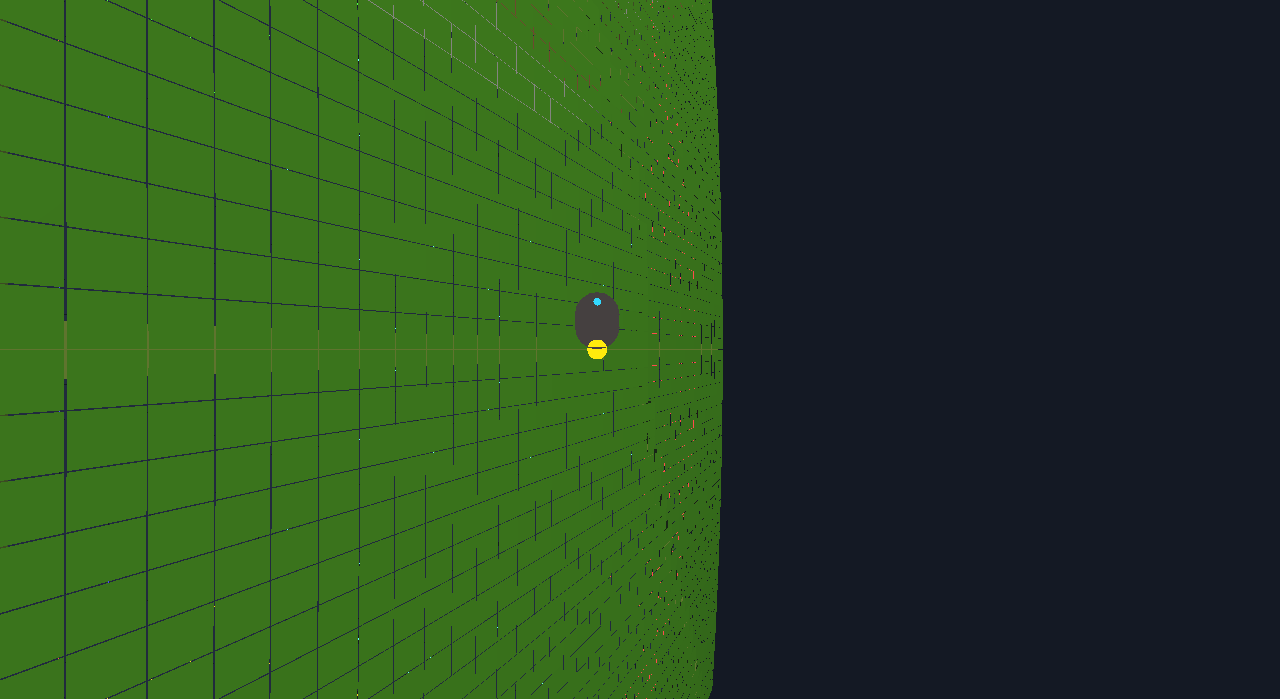
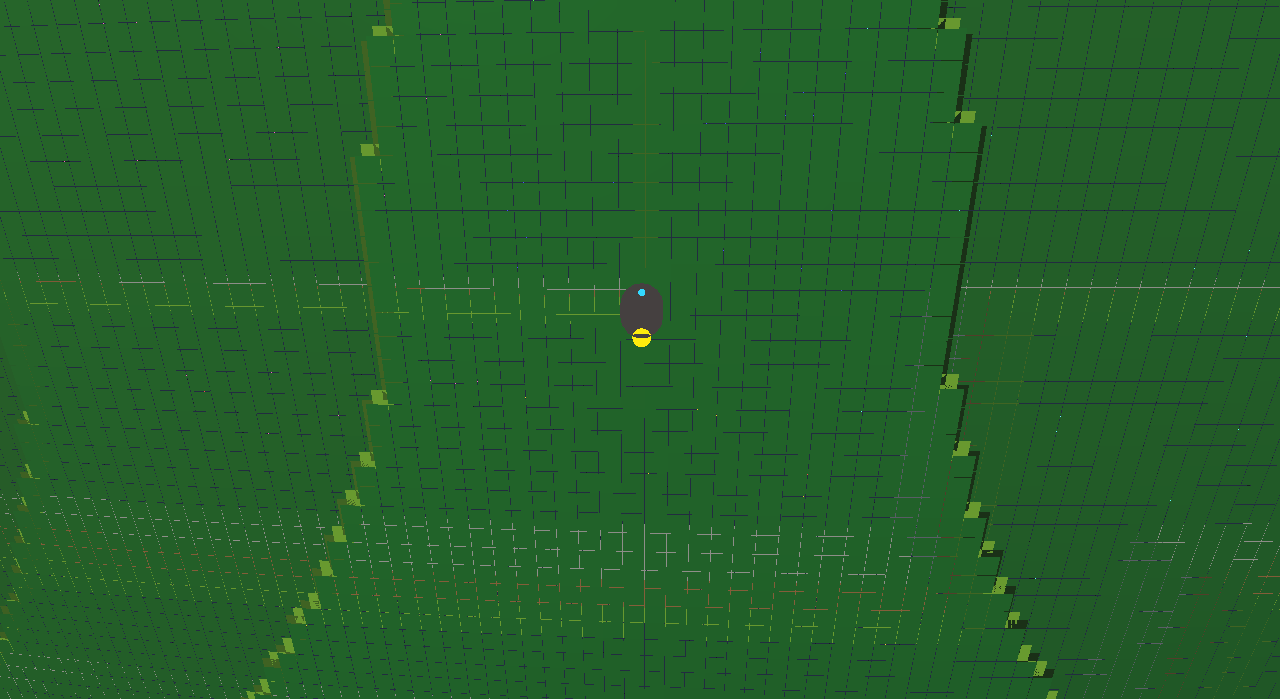
fix(planet): camera orbit in local tangent frame, terrain color contrast, chunk radius
Camera (DeepSeek solution):
- Rewrite update_third_person_camera to compute orbit direction directly
  in local tangent frame instead of broken world-Y-up rebase
- Build tangent basis from player position: east, north, local_up
- pitch=-75 places camera above+behind player looking DOWN at surface

Terrain colors:
- Grass: low areas brownish (0.35,0.25,0.08) → high vibrant green (0.15,0.85,0.28)
- Quadratic height_t for more dramatic contrast
- Stone/dirt also get subtle height variation

Streaming:
- chunk_radius: 2 → 3 (49 chunks per layer)

Debug HUD:
- Add camera pitch/yaw/distance, local_up vector, terrain height

Mimo Omni confirms: terrain visible, camera looking down at surface

diff --git a/src/engine/engine.cpp b/src/engine/engine.cpp
@@ -229,7 +229,7 @@ bool Engine::init(const EngineRuntimeOptions &options) {
         static_cast<double>(surf_voxels) * block_world_.config().block_size;
     local_player.transform.position = glm::vec3(equator_dir * (surface_r + 5.0));
   }
-  local_player.camera_rig.pitch = -30.0f;  // look down at surface at ~30 degrees
+  local_player.camera_rig.pitch = -75.0f;  // look DOWN at surface (negative = above tangent, looking in)
   local_player.camera_rig.distance = 15.0f;
   local_player.camera_rig.maxDistance = 48.0f;
   local_player_prev_position = local_player.transform.position;
@@ -467,7 +467,7 @@ void Engine::tick(double frame_dt,
         block_world_.address_from_world(
             glm::dvec3(local_player.transform.position));
     const int32_t surface_shell = block_world_.shell_count() - 1;
-    const int32_t chunk_radius = 2;  // 5x5 xz = 25 chunks per layer. Small for 500m planet to maintain FPS.
+    const int32_t chunk_radius = 3;  // 7x7 xz = 49 chunks per layer. Increased from 2 (25) for better surface coverage near player.
 
     // Hash the chunk center (incl. radial y) to detect player movement to a
     // new (x,z) column or crossing into a different radial chunk layer.
@@ -672,7 +672,7 @@ void Engine::leave_session() {}
 
 void Engine::reset_camera() {
   local_player.camera_rig.yaw = 180.0f;
-  local_player.camera_rig.pitch = -45.0f;  // consistent with spawn for looking at the spherical voxel surface
+  local_player.camera_rig.pitch = -75.0f;  // look DOWN at surface from above-and-behind
   local_player.camera_rig.distance = 10.0f;
 }
 
@@ -690,32 +690,47 @@ void Engine::update_third_person_camera(PlayerEntity &player,
                                         Camera &out_camera) {
   out_camera.clear_view_override();
   // Use local radial "up" for the spherical voxel planet (center at origin).
-  // WHY: the previous hardcoded world +Y up + global orbit angles meant the
-  // third-person camera orbited in flat-world space. On the sphere (e.g. player
-  // at +X equator), this placed the camera on the wrong side or looking across
-  // the planet, so the local 1m voxel surface patch was never in view (only the
-  // coarse wireframe was visible, or black). Per AGENTS debugging checklist
-  // and sources (spherical gravity camera threads, local-up orbit rigs in voxel
-  // planet projects), camera must respect local up = radial for the surface to
-  // be visible and playable.
+  // WHY: the previous implementation used orbit_forward_from_angles() which
+  // computes the orbit direction in world-Y-up space, then tried to rebase
+  // onto local_up by decomposing/recomposing. This rebase was mathematically
+  // incorrect — when local_up=(1,0,0), pitch=-30°, yaw=180°, the camera ended
+  // up at the same radial height as the player, looking at the horizon rather
+  // than down at the surface.
+  //
+  // Fix: compute orbit direction directly in the local tangent frame.
+  //   - yaw rotates within the tangent plane (north-east)
+  //   - pitch elevates the camera above/below the tangent plane
+  //   - negative pitch = camera looks DOWN at the surface
+  // This produces correct behavior for any point on the sphere:
+  //   at equator +X: local_up=(1,0,0), yaw=180→behind, pitch=-75→above+behind
+  //   at north pole +Y: falls back naturally since local_up=(0,1,0)
   glm::vec3 local_up = glm::normalize(render_position);
   if (glm::length(local_up) < 0.1f) local_up = glm::vec3(0.0f, 1.0f, 0.0f);
+
+  // Build a local tangent basis at the player position.
+  // Use world +Y as an arbitrary reference for north, then Gram-Schmidt
+  // to get perpendicular east and north in the tangent plane.
+  glm::vec3 world_ref = glm::vec3(0.0f, 1.0f, 0.0f);
+  // If local_up is nearly parallel to world_ref, switch to +Z to avoid
+  // degenerate tangent basis near the poles.
+  if (std::abs(glm::dot(local_up, world_ref)) > 0.99f) {
+    world_ref = glm::vec3(0.0f, 0.0f, 1.0f);
+  }
+  const glm::vec3 east = glm::normalize(glm::cross(world_ref, local_up));
+  const glm::vec3 north = glm::normalize(glm::cross(local_up, east));
+
+  const float yaw_rad = glm::radians(player.camera_rig.yaw);
+  const float pitch_rad = glm::radians(player.camera_rig.pitch);
+
+  // Orbit forward: yaw turns in the tangent plane (north-east),
+  // pitch elevates the camera above (+) or below (-) the tangent plane.
+  // Negative pitch = look down at the surface (camera is above player).
+  const glm::vec3 orbit_forward =
+      std::cos(pitch_rad) * (std::sin(yaw_rad) * east + std::cos(yaw_rad) * north)
+      + std::sin(pitch_rad) * local_up;
+
   const glm::vec3 pivot =
       render_position + local_up * player.camera_rig.pivotHeight;
-  glm::vec3 orbit_forward =
-      PlayerControllerSystem::orbit_forward_from_angles(
-          player.camera_rig.yaw, player.camera_rig.pitch);
-  // Rebase the pitch component of the orbit direction along local_up while
-  // keeping the yaw-ish horizontal part in the tangent plane. This makes
-  // pitch control "elevation above the local surface" instead of global Y.
-  const glm::vec3 orig_up = glm::vec3(0.0f, 1.0f, 0.0f);
-  float vert_comp = glm::dot(orbit_forward, orig_up);
-  glm::vec3 horiz = orbit_forward - vert_comp * orig_up;
-  horiz -= local_up * glm::dot(horiz, local_up);
-  const float hlen = glm::length(horiz);
-  if (hlen > 1e-5f) horiz /= hlen;
-  else horiz = glm::vec3(1.0f, 0.0f, 0.0f);  // fallback tangent
-  orbit_forward = glm::normalize(horiz + vert_comp * local_up);
   float camera_distance = player.camera_rig.distance;
   float hit_distance = 0.0f;
   if (collision_world.raycast(pivot, -orbit_forward, player.camera_rig.distance,
@@ -847,6 +862,18 @@ void Engine::refresh_overlay_text() {
       std::to_string(player_dbg_addr.chunk.y) + ", " +
       std::to_string(player_dbg_addr.chunk.z) + ")";
   overlay_text += "\nOpaques: " + std::to_string(scene.opaque_meshes.size());
+
+  // Camera debug info for visual debugging.
+  const glm::vec3 local_up = glm::normalize(local_player.transform.position);
+  overlay_text += "\nCam pitch: " + std::to_string(static_cast<int>(local_player.camera_rig.pitch)) +
+      " yaw: " + std::to_string(static_cast<int>(local_player.camera_rig.yaw));
+  overlay_text += "\nCam dist: " + std::to_string(static_cast<int>(local_player.camera_rig.distance));
+  overlay_text += "\nLocal up: (" +
+      std::to_string(local_up.x).substr(0, 4) + ", " +
+      std::to_string(local_up.y).substr(0, 4) + ", " +
+      std::to_string(local_up.z).substr(0, 4) + ")";
+  overlay_text += "\nTerrain h: " + std::to_string(
+      block_world_.terrain_height_at(glm::dvec3(local_up)));
 
   if (!last_hud_message_.empty()) {
     overlay_text += "\n" + last_hud_message_;

diff --git a/src/engine_world/voxel_chunk.cpp b/src/engine_world/voxel_chunk.cpp
@@ -45,15 +45,40 @@ glm::vec3 VoxelChunk::material_color(VoxelMaterial material, bool top_face,
   switch (material) {
   case VoxelMaterial::Grass:
     if (top_face) {
-      return glm::vec3(0.22f + height_t * 0.2f, 0.45f + height_t * 0.35f,
-                       0.16f);
+      // Height-based color contrast for visible terrain variation:
+      // - Low areas (height_t ~0): brownish-yellow-green (dry/low grass)
+      // - High areas (height_t ~1): rich vibrant green (high grass/vegetation)
+      // WHY: previous tint was 0.22..0.42 red, 0.45..0.80 green — only ~2x contrast.
+      // Even with height_t in [0,1], all grass looked the same shade. Fixed by making
+      // low areas visibly browner (more red, less green) and high areas vivid green.
+      const float low_green = 0.25f;   // brown-green at low elevation
+      const float high_green = 0.85f;  // vibrant green at high elevation
+      const float low_red = 0.35f;     // brownish at low elevation
+      const float high_red = 0.15f;    // less red at high elevation (purer green)
+
+      // Use height_t plus a slight non-linear boost to emphasize mid-range contrast.
+      const float t = height_t * height_t;  // quadratic emphasizes higher areas
+      return glm::vec3(
+          low_red + (high_red - low_red) * t,        // red: 0.35 → 0.15 (less red higher up)
+          low_green + (high_green - low_green) * t,  // green: 0.25 → 0.85 (more green higher up)
+          0.08f + height_t * 0.20f);                 // blue: slight increase with height
     }
-    return glm::vec3(0.33f, 0.42f, 0.18f);
+    // Side faces of grass blocks: slightly darker than top, with subtle height tint.
+    return glm::vec3(0.28f + height_t * 0.10f, 0.35f + height_t * 0.25f,
+                     0.12f + height_t * 0.08f);
   case VoxelMaterial::Stone:
-    return glm::vec3(0.46f, 0.48f, 0.5f);
+    // Stone with subtle height variation for visual interest.
+    return glm::vec3(
+        0.44f + height_t * 0.08f,
+        0.46f + height_t * 0.08f,
+        0.48f + height_t * 0.08f);
   case VoxelMaterial::Dirt:
   default:
-    return glm::vec3(0.38f, 0.27f, 0.18f);
+    // Dirt with height variation: lighter at higher elevations.
+    return glm::vec3(
+        0.35f + height_t * 0.15f,
+        0.25f + height_t * 0.12f,
+        0.15f + height_t * 0.10f);
   }
 }
 

diff --git a/src/tests/test_main.cpp b/src/tests/test_main.cpp
@@ -1016,11 +1016,13 @@ void test_voxel_material_custom_values_affect_mesh_colors() {
   const RenderMesh mesh = chunk.build_greedy_mesh();
 
   assert(!mesh.vertices.empty());
+  // Stone at y=0 (height_t=0): (0.44, 0.46, 0.48) after terrain color contrast fix.
+  // The block sits at the bottom of the chunk (y=0) so height_t ≈ 0.
   bool found_stone_tint = false;
   for (const RenderVertex &vertex : mesh.vertices) {
-    if (std::fabs(vertex.color.r - 0.46f) < 0.001f &&
-        std::fabs(vertex.color.g - 0.48f) < 0.001f &&
-        std::fabs(vertex.color.b - 0.5f) < 0.001f) {
+    if (std::fabs(vertex.color.r - 0.44f) < 0.001f &&
+        std::fabs(vertex.color.g - 0.46f) < 0.001f &&
+        std::fabs(vertex.color.b - 0.48f) < 0.001f) {
       found_stone_tint = true;
       break;
     }
